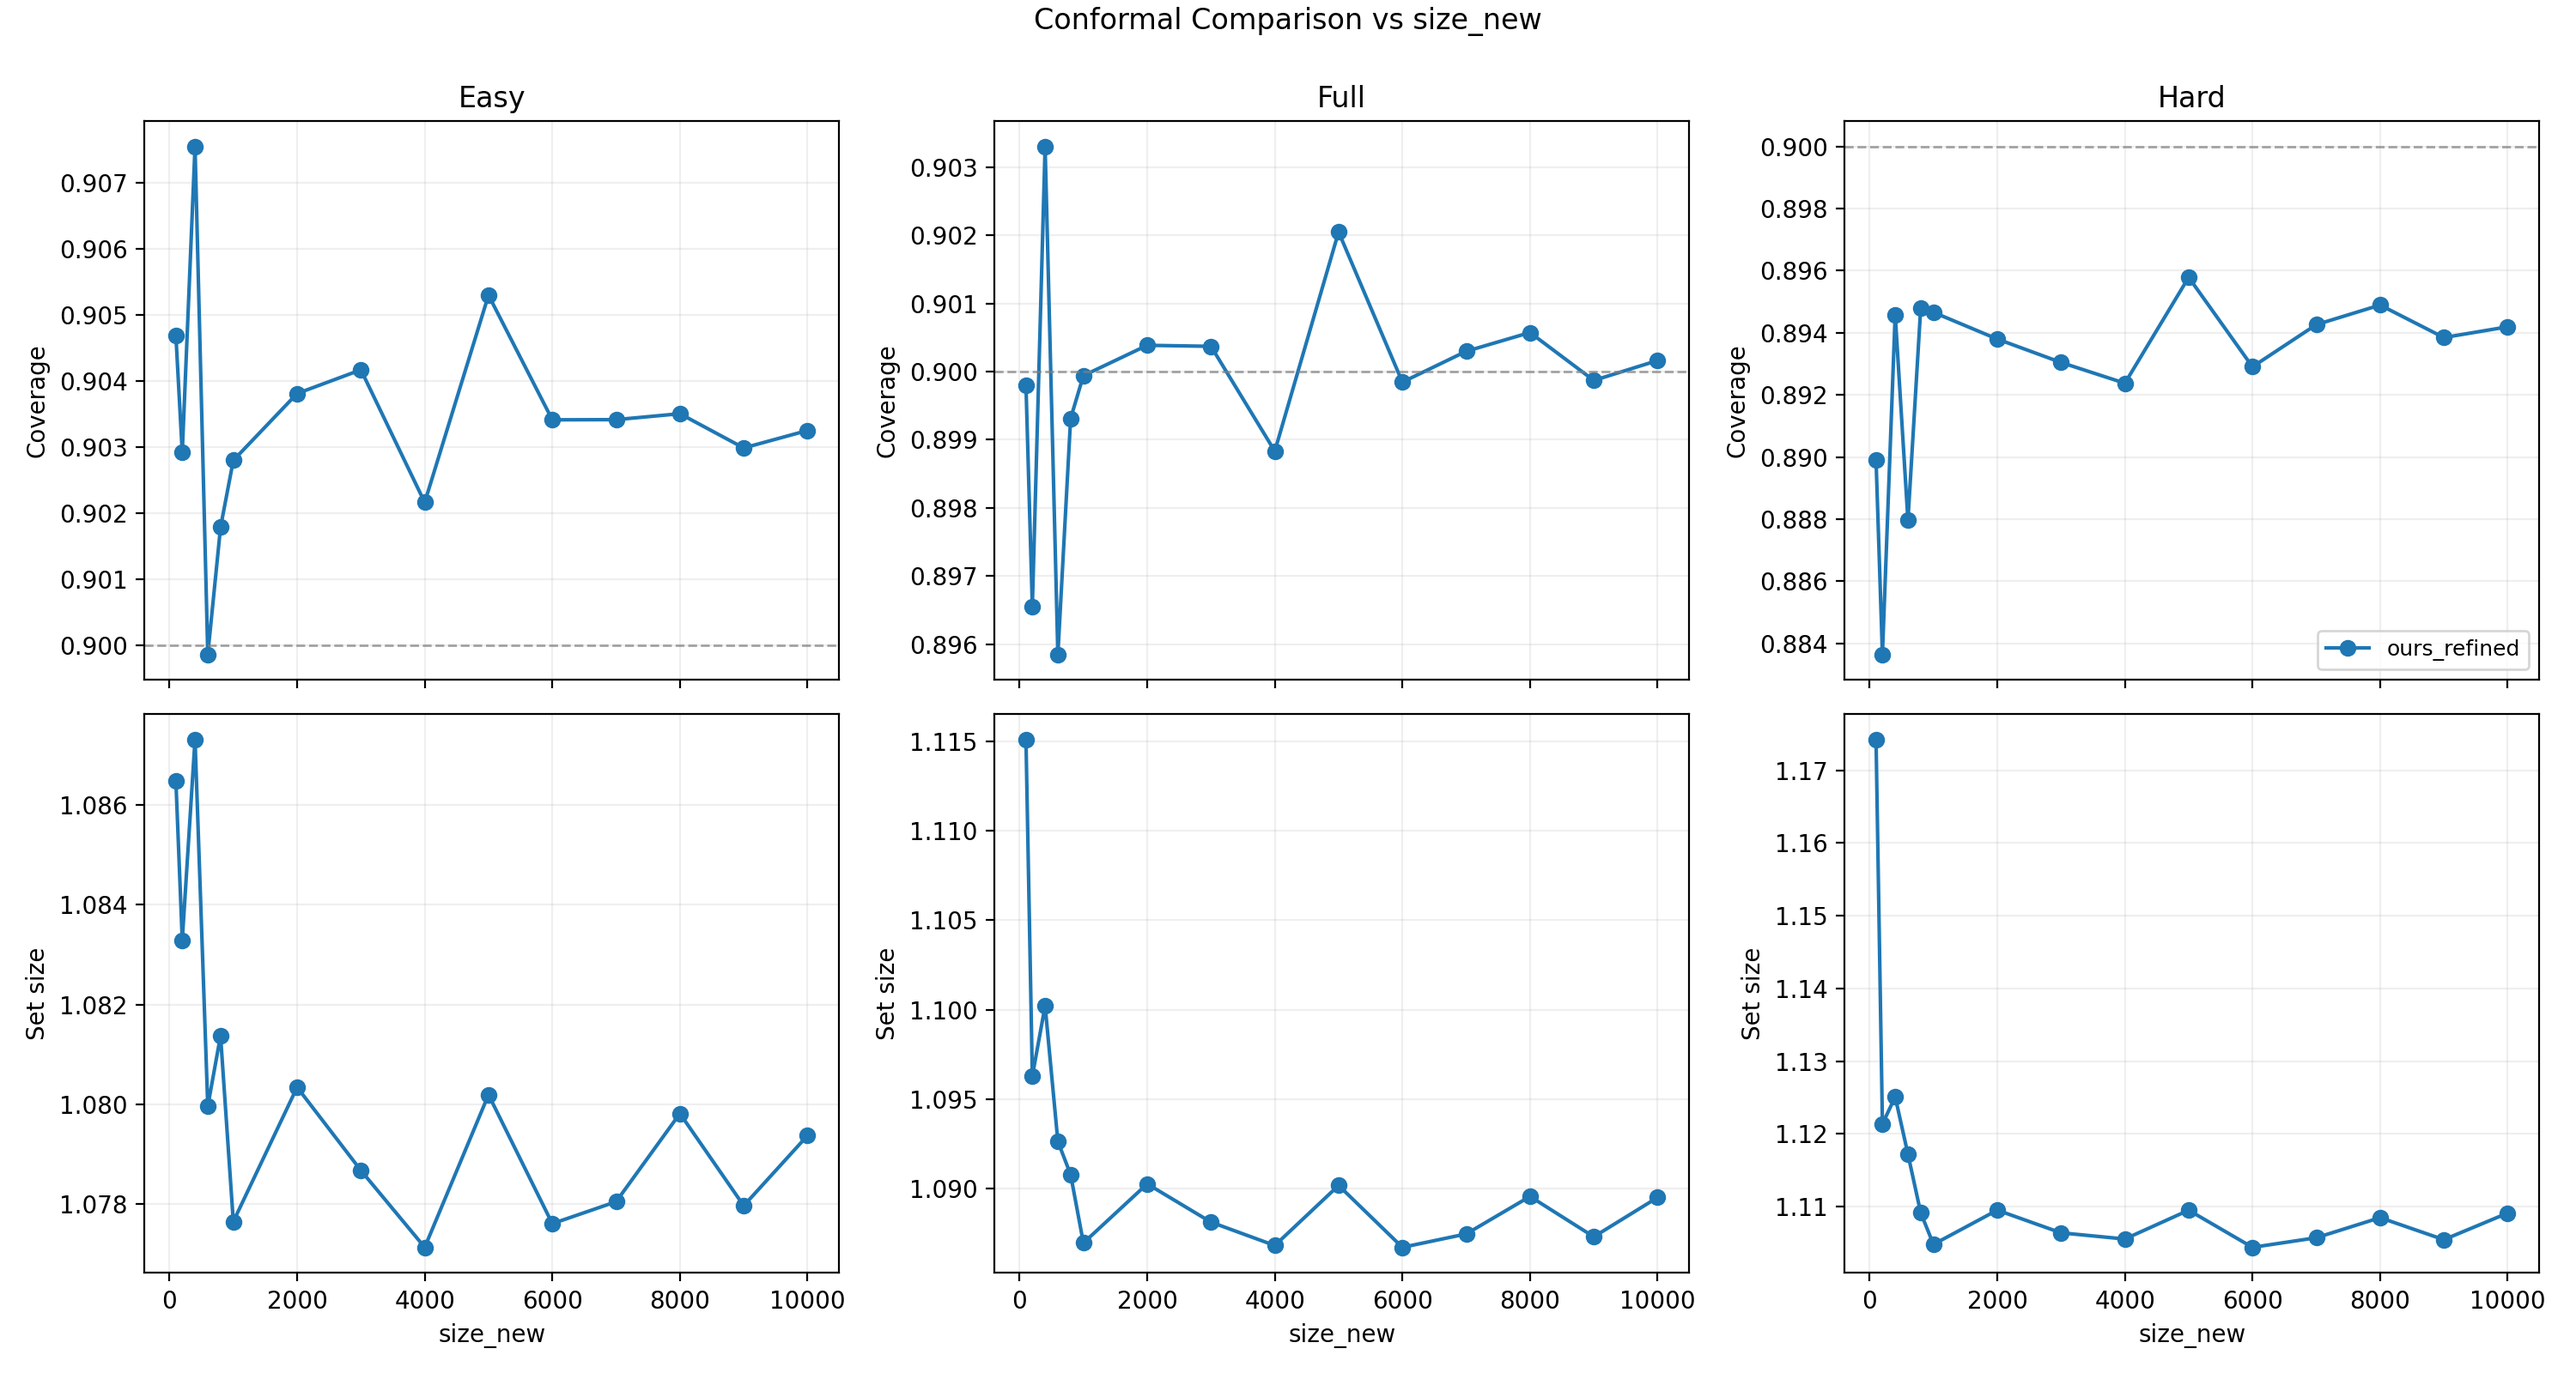
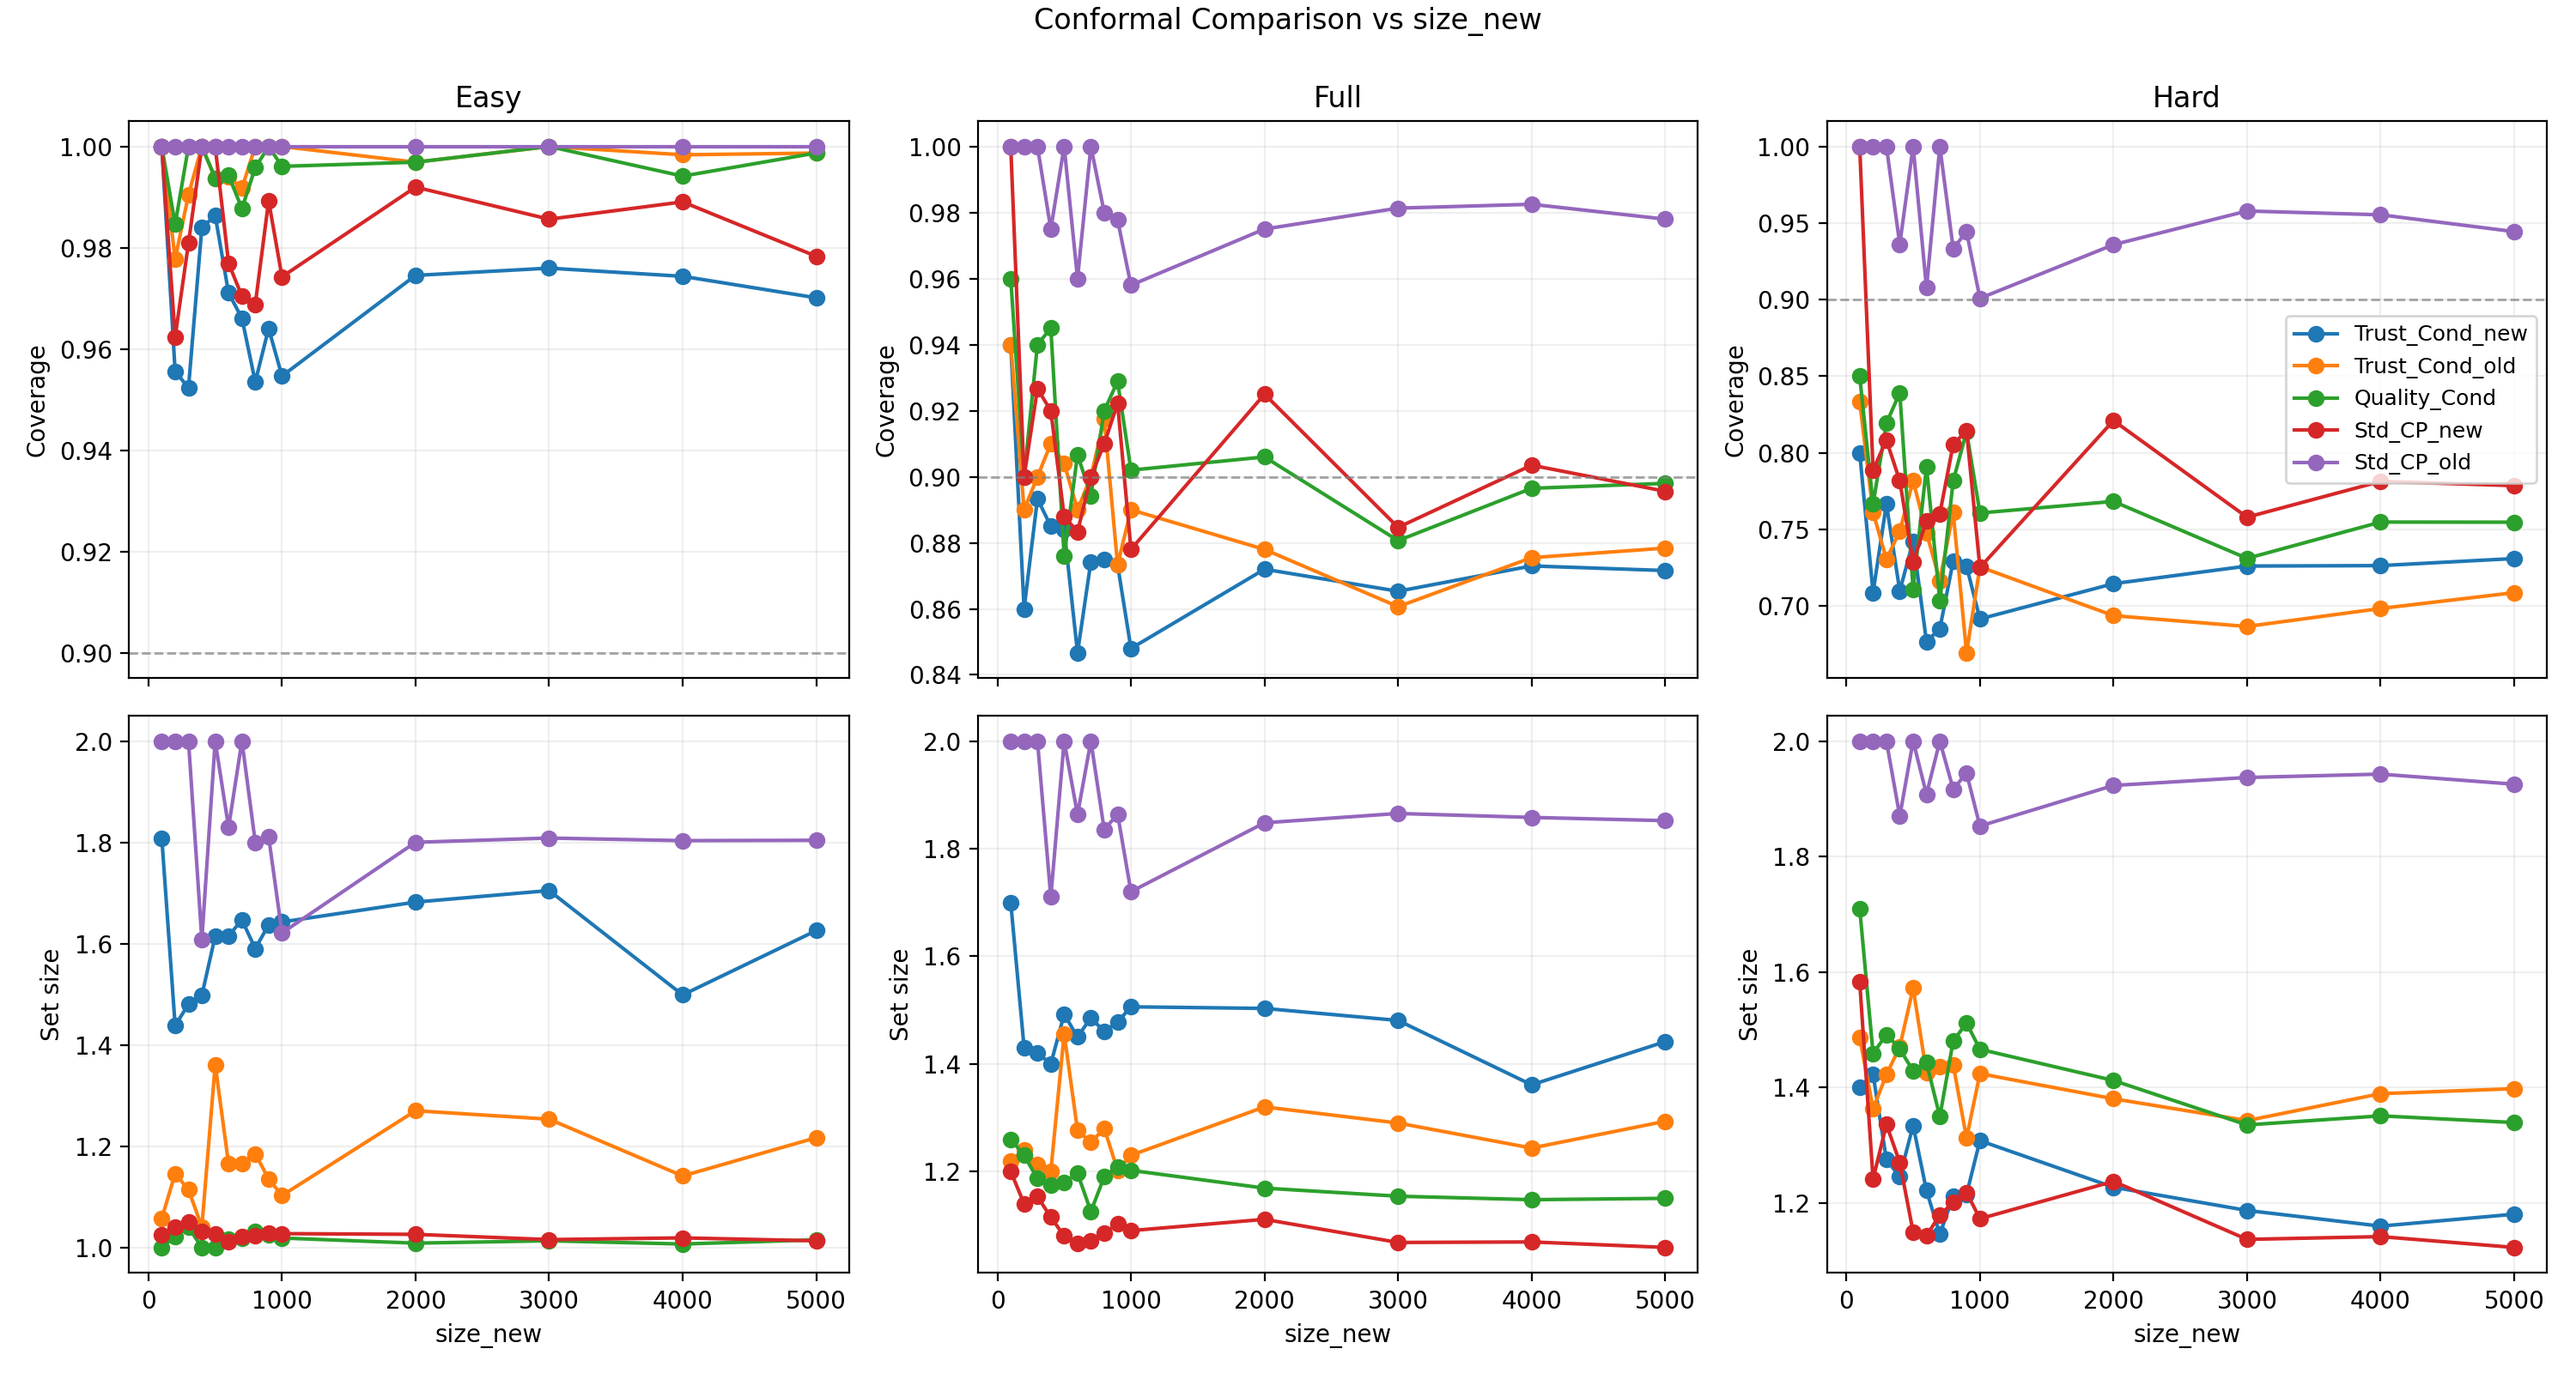
run_sweep.py new

diff --git a/analysis/plot_sweep.py b/analysis/plot_sweep.py
@@ -1,142 +1,144 @@
-# analysis/plot_sweep.py
+# analysis/plot_agg.py
 import argparse
-import pandas as pd
 import numpy as np
+import pandas as pd
 import matplotlib.pyplot as plt
-from pathlib import Path
+from collections import defaultdict
 
-SUBSET_ORDER = ["easy_new", "overall", "hard_new"]
-SUBSET_TITLES = {"easy_new": "Easy", "overall": "Full", "hard_new": "Hard"}
+def coerce_numeric(df, cols):
+    for c in cols:
+        if c in df.columns:
+            df[c] = pd.to_numeric(df[c], errors="coerce")
+    return df
 
-# Choose a consistent order & label for methods (edit as you like)
-METHOD_ORDER = [
-    "ours_refine",
-    "condtrust_old", "split_old",
-    "condtrust_new", "split_new",
-]
-METHOD_LABEL = {
-    "ours_refine":   "Quality_Cond",
-    "condtrust_old": "Trust_Cond_old",
-    "split_old":     "Std_CP_old",
-    "condtrust_new": "Trust_Cond_new",
-    "split_new":     "Std_CP_new",
-}
+def detect_varying_key(df, candidates):
+    for c in candidates:
+        if c in df.columns and pd.to_numeric(df[c], errors="coerce").nunique(dropna=True) > 1:
+            return c
+    # fallback: any varying numeric column not in excluded set
+    excluded = {"coverage","avg_size","n","alpha","seed"}
+    for c in df.columns:
+        if c in excluded: continue
+        s = pd.to_numeric(df[c], errors="coerce")
+        if s.notna().any() and s.nunique(dropna=True) > 1:
+            return c
+    return None
 
-def aggregate(df: pd.DataFrame, x_col: str):
-    """
-    Group by (subset, method, x_col) across seeds and compute mean & stderr.
-    Returns a tidy DataFrame with columns:
-        subset, method, x, coverage_mean, coverage_se, avg_size_mean, avg_size_se, count
-    """
-    # normalize column names
-    df = df.rename(columns={x_col: "x"})
-    # keep only columns we need
-    need = ["subset", "method", "x", "coverage", "avg_size", "seed"]
-    missing = [c for c in need if c not in df.columns]
-    if missing:
-        raise ValueError(f"Missing columns in CSV: {missing}")
-
-    grp = df.groupby(["subset", "method", "x"], as_index=False)
-    def agg_fn(g):
-        n = g["seed"].nunique() if "seed" in g else len(g)
-        return pd.Series({
-            "coverage_mean": g["coverage"].mean(),
-            "coverage_se":   g["coverage"].std(ddof=1) / np.sqrt(n) if n > 1 else 0.0,
-            "avg_size_mean": g["avg_size"].mean(),
-            "avg_size_se":   g["avg_size"].std(ddof=1) / np.sqrt(n) if n > 1 else 0.0,
-            "count":         n,
-        })
-    out = grp.apply(agg_fn).reset_index(drop=True)
-    return out
-
-def plot_panels(summary: pd.DataFrame, x_label: str, out_png: Path, title: str | None):
-    # ensure ordering
-    summary["subset"] = pd.Categorical(summary["subset"], categories=SUBSET_ORDER, ordered=True)
-    summary["method"] = pd.Categorical(summary["method"],
-                                       categories=[m for m in METHOD_ORDER if m in summary["method"].unique()],
-                                       ordered=True)
-    summary = summary.sort_values(["subset", "method", "x"])
-
-    # set up 2×3 grid (Coverage top; Set size bottom)
-    fig, axes = plt.subplots(2, 3, figsize=(16, 8), sharex="col")
-    markers = ["o", "s", "D", "^", "v", "P", "X", "*"]
-    linestyles = ["-", "-", "-", "-", "-", "-", "-"]
-
-    for col_i, subset in enumerate(SUBSET_ORDER):
-        sub = summary[summary["subset"] == subset]
-        if sub.empty:
-            # leave blank if subset not present
-            axes[0, col_i].set_visible(False)
-            axes[1, col_i].set_visible(False)
-            continue
-
-        # coverage
-        ax_cov = axes[0, col_i]
-        for j, method in enumerate(sub["method"].cat.categories):
-            d = sub[sub["method"] == method]
-            if d.empty: 
-                continue
-            ax_cov.errorbar(d["x"], d["coverage_mean"], yerr=d["coverage_se"],
-                            marker=markers[j % len(markers)], linestyle=linestyles[j % len(linestyles)],
-                            label=METHOD_LABEL.get(method, method), capsize=3)
-        ax_cov.set_title(SUBSET_TITLES.get(subset, subset))
-        ax_cov.set_ylabel("Coverage")
-        ax_cov.grid(True, alpha=0.25)
-        ax_cov.axhline(0.9, color="gray", linestyle="--", linewidth=1, alpha=0.6)  # target alpha line
-
-        # avg set size
-        ax_sz = axes[1, col_i]
-        for j, method in enumerate(sub["method"].cat.categories):
-            d = sub[sub["method"] == method]
-            if d.empty:
-                continue
-            ax_sz.errorbar(d["x"], d["avg_size_mean"], yerr=d["avg_size_se"],
-                           marker=markers[j % len(markers)], linestyle=linestyles[j % len(linestyles)],
-                           label=METHOD_LABEL.get(method, method), capsize=3)
-        ax_sz.set_xlabel(x_label)
-        ax_sz.set_ylabel("Set size")
-        ax_sz.grid(True, alpha=0.25)
-
-    # one legend for all
-    handles, labels = axes[0, 0].get_legend_handles_labels()
-    if handles:
-        fig.legend(handles, labels, loc="lower center", ncol=min(5, len(labels)), frameon=False, bbox_to_anchor=(0.5, -0.02))
-
-    if title:
-        fig.suptitle(title, y=0.98)
-
-    fig.tight_layout(rect=[0, 0.03, 1, 0.97])
-    out_png.parent.mkdir(parents=True, exist_ok=True)
-    fig.savefig(out_png, dpi=200, bbox_inches="tight")
-    print(f"[saved] {out_png}")
+def agg_stats(df, xkey):
+    g = (
+        df.groupby(["subset", "method", xkey], dropna=True)
+          .agg(coverage_mean=("coverage", "mean"),
+               coverage_std =("coverage", "std"),
+               size_mean    =("avg_size", "mean"),
+               size_std     =("avg_size", "std"),
+               count        =("coverage", "size"))
+          .reset_index()
+    )
+    g["coverage_sem"] = g["coverage_std"] / np.sqrt(g["count"].clip(lower=1))
+    g["size_sem"]     = g["size_std"] / np.sqrt(g["count"].clip(lower=1))
+    return g.sort_values(["subset","method", xkey])
 
 def main():
     ap = argparse.ArgumentParser()
-    ap.add_argument("--csv", required=True, help="Path to the big sweep CSV (long format).")
-    ap.add_argument("--x-col", required=True, help="Column to sweep on (e.g. size_new, p_old, p_new, etc.)")
-    ap.add_argument("--out", default="figures/sweep.png", help="Output PNG path.")
-    ap.add_argument("--title", default=None, help="Optional figure title.")
-    ap.add_argument("--save-agg", default=None, help="Optional path to save aggregated CSV.")
+    ap.add_argument("--csv", required=True, help="Path to merged sweep CSV")
+    ap.add_argument("--xkey", default=None, help="Column to put on x-axis (auto-detect if omitted)")
+    ap.add_argument("--alpha", type=float, default=None, help="Optional: filter by alpha value")
+    ap.add_argument("--subset-order", nargs="*", default=["easy_new","overall","hard_new"])
+    ap.add_argument("--out", default="figure.png")
     args = ap.parse_args()
 
     df = pd.read_csv(args.csv)
-    # be robust to stringy numerics in x-col
-    if args.x_col in df.columns:
-        try:
-            df[args.x_col] = pd.to_numeric(df[args.x_col])
-        except Exception:
-            pass
 
-    # filter to methods we know, but keep whatever exists
-    # (no filtering necessary unless you want to trim)
-    summary = aggregate(df, args.x_col)
-    if args.save_agg:
-        p = Path(args.save_agg)
-        p.parent.mkdir(parents=True, exist_ok=True)
-        summary.to_csv(p, index=False)
-        print(f"[saved] {p}")
+    # numeric coercion (keep this list broad; script is tolerant to missing cols)
+    numeric_candidates = [
+        "coverage","avg_size","n","alpha","seed",
+        "size_old","size_new","sigma_x","eta_old","eta_new","tau_easy",
+        "p_old","p_new","w_old_0","w_old_1","w_new_0","w_new_1","b_old","b_new","cal_frac",
+        "rho2","lam","beta",
+    ]
+    df = coerce_numeric(df, [c for c in numeric_candidates if c in df.columns])
 
-    plot_panels(summary, x_label=args.x_col, out_png=Path(args.out), title=args.title)
+    if args.alpha is not None and "alpha" in df.columns:
+        df = df[np.isclose(df["alpha"], args.alpha)]
+        if df.empty:
+            print("No rows after filtering by alpha.")
+            return
+
+    print("Rows:", len(df))
+    print("Subsets:", sorted(df["subset"].unique()))
+    print("Methods:", sorted(df["method"].unique()))
+
+    xkey = args.xkey or detect_varying_key(df, ["size_new","rho2","p_old","p_new","cal_frac","lam","beta"])
+    if xkey is None or xkey not in df.columns:
+        print("Could not detect a varying x-axis column. Pass --xkey explicitly.")
+        return
+
+    df = df.dropna(subset=["subset","method","coverage","avg_size", xkey])
+    if df.empty:
+        print("No data to plot after dropping NaNs.")
+        return
+
+    G = agg_stats(df, xkey)
+
+    # label map (use same as plot_sweep)
+    label_map = {
+        "ours_refined":   "Quality_Cond",
+        "condtrust_old":  "Trust_Cond_old",
+        "condtrust_new":  "Trust_Cond_new",
+        "split_old":      "Std_CP_old",
+        "split_new":      "Std_CP_new",
+    }
+    color_cycle = plt.rcParams["axes.prop_cycle"].by_key()["color"]
+    methods = list(G["method"].unique()); methods.sort()
+    color_for = {m: color_cycle[i % len(color_cycle)] for i, m in enumerate(methods)}
+    label_for = defaultdict(lambda: None, label_map)
+
+    subsets = args.subset_order
+    ncols = len(subsets)
+    fig, axes = plt.subplots(2, ncols, figsize=(5*ncols, 8), sharex=True)
+    if ncols == 1:
+        axes = np.array([[axes[0]],[axes[1]]])
+
+    titles = {"easy_new":"Easy", "overall":"Full", "hard_new":"Hard"}
+    # target coverage line if alpha present
+    cov_target = None
+    if "alpha" in df.columns and df["alpha"].notna().any():
+        a = pd.to_numeric(df["alpha"], errors="coerce").dropna().unique()
+        if len(a) == 1:
+            cov_target = 1.0 - float(a[0])
+
+    for j, sub in enumerate(subsets):
+        ax_cov = axes[0, j]; ax_sz = axes[1, j]
+        Gj = G[G["subset"] == sub]
+
+        for m in methods:
+            gm = Gj[Gj["method"] == m]
+            if gm.empty: 
+                continue
+            x = gm[xkey].values
+            y_cov = gm["coverage_mean"].values
+            y_sz  = gm["size_mean"].values
+            order = np.argsort(x)
+            x, y_cov, y_sz = x[order], y_cov[order], y_sz[order]
+            lbl = label_for[m] if label_for[m] else m
+            ax_cov.plot(x, y_cov, marker="o", label=lbl, color=color_for[m])
+            ax_sz.plot(x, y_sz, marker="o", label=lbl, color=color_for[m])
+
+        ax_cov.set_title(titles.get(sub, sub))
+        ax_cov.set_ylabel("Coverage")
+        if cov_target is not None:
+            ax_cov.axhline(cov_target, ls="--", lw=1, color="gray", alpha=0.7)
+        ax_sz.set_ylabel("Set size")
+        ax_sz.set_xlabel(xkey)
+        ax_cov.grid(alpha=0.2)
+        ax_sz.grid(alpha=0.2)
+        if j == ncols - 1:
+            ax_cov.legend(loc="best", fontsize=9)
+
+    fig.suptitle(f"Conformal Comparison vs {xkey}", y=0.995)
+    fig.tight_layout()
+    fig.savefig(args.out, dpi=200)
+    print("Saved:", args.out)
 
 if __name__ == "__main__":
     main()
